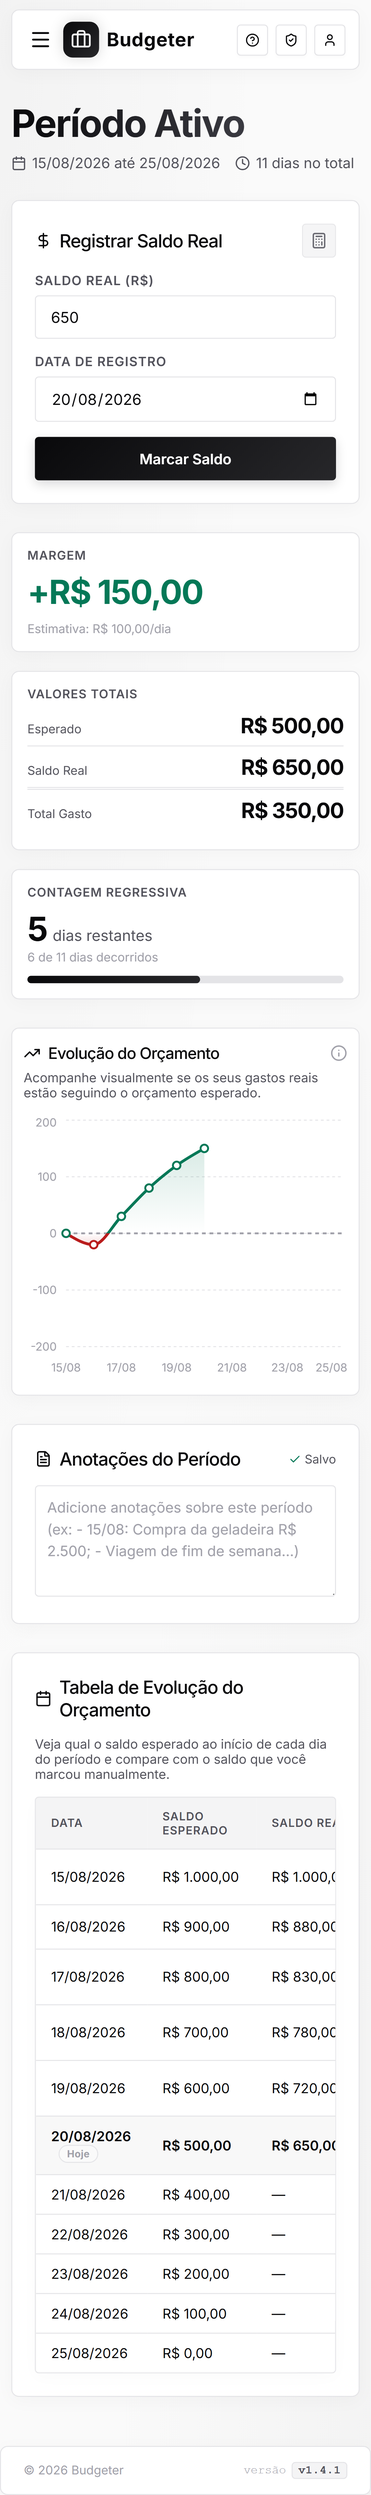
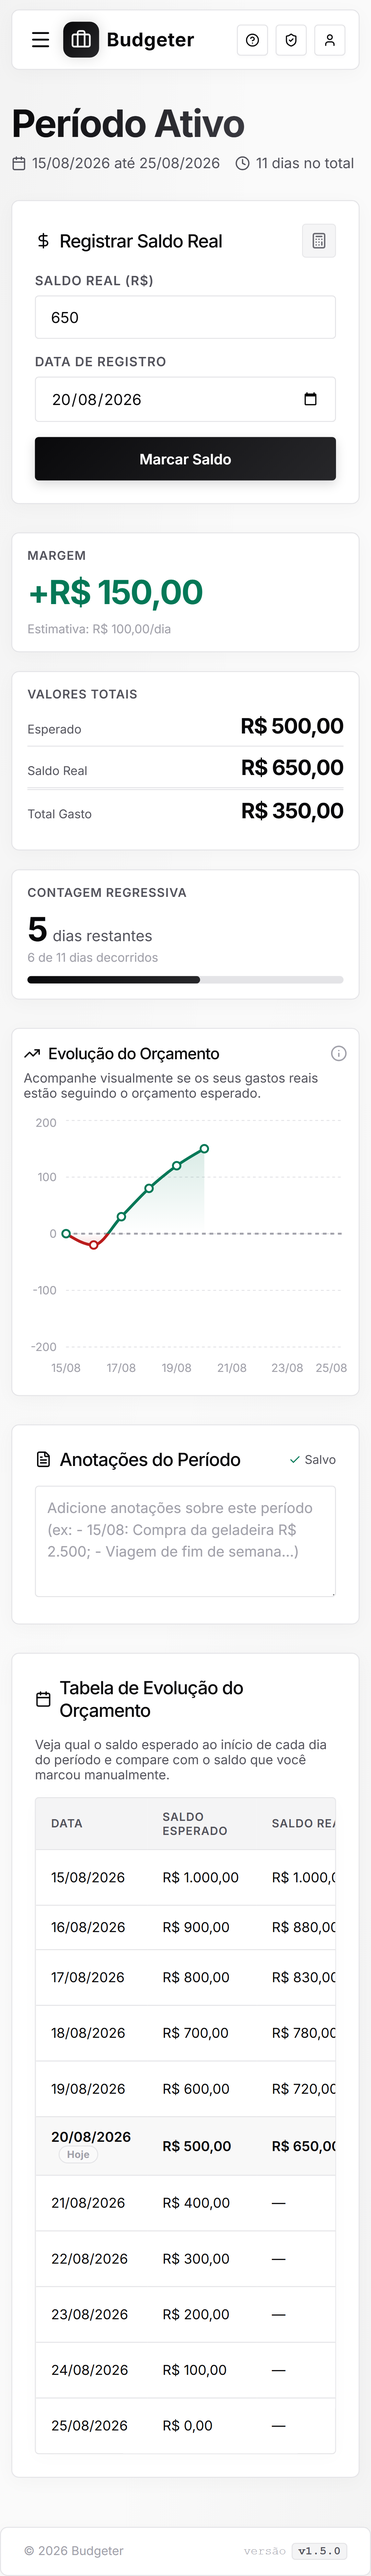
feat: atualiza coluna para Margem Projetada em cinza claro com evolucao diaria

diff --git a/src/components/PeriodDetail.tsx b/src/components/PeriodDetail.tsx
@@ -1012,7 +1012,7 @@ export const PeriodDetail: React.FC<PeriodDetailProps> = ({
                 <th style={{ width: '20%' }}>Data</th>
                 <th style={{ width: '20%' }}>Saldo Esperado</th>
                 <th style={{ width: '20%' }}>Saldo Real</th>
-                <th style={{ width: '20%' }}>Saldo Projetado</th>
+                <th style={{ width: '20%' }}>Margem Projetada</th>
                 <th style={{ width: '20%' }}>Margem</th>
               </tr>
             </thead>
@@ -1055,6 +1055,19 @@ export const PeriodDetail: React.FC<PeriodDetailProps> = ({
                       diffText = 'Margem OK';
                       diffColor = 'var(--color-neutral)';
                       diffWeight = '700';
+                    }
+                  }
+
+                  let projMarginText = '—';
+                  if (!isPast) {
+                    const projMargin = projectedVal - expectedBalance;
+                    const projMarginAbs = Math.abs(projMargin);
+                    if (projMargin > 0.01) {
+                      projMarginText = `+ ${formatCurrency(projMarginAbs)}`;
+                    } else if (projMargin < -0.01) {
+                      projMarginText = `- ${formatCurrency(projMarginAbs)}`;
+                    } else {
+                      projMarginText = 'Margem OK';
                     }
                   }
 
@@ -1105,8 +1118,8 @@ export const PeriodDetail: React.FC<PeriodDetailProps> = ({
                           )}
                         </div>
                       </td>
-                      <td>
-                        {!isPast ? formatCurrency(projectedVal) : '—'}
+                      <td style={{ color: 'var(--text-muted)' }}>
+                        {projMarginText}
                       </td>
 
                       <td style={{ color: diffColor, fontWeight: diffWeight as any }}>

diff --git a/tests/table-projection.spec.ts b/tests/table-projection.spec.ts
@@ -1,7 +1,7 @@
 import { test, expect } from '@playwright/test';
 
-test.describe('Coluna de Saldo Projetado na Tabela', () => {
-  test('deve exibir a coluna Saldo Projetado, mostrando traço para dias passados e saldo projetado para dias hoje/futuros', async ({ page }) => {
+test.describe('Coluna de Margem Projetada na Tabela', () => {
+  test('deve exibir a coluna Margem Projetada, mostrando traço para dias passados e margem projetada em cinza para dias hoje/futuros', async ({ page }) => {
     const mockPeriod = {
       id: "test-table-projection",
       name: "Teste Tabela Projeção",
@@ -27,13 +27,13 @@ test.describe('Coluna de Saldo Projetado na Tabela', () => {
 
     await page.goto('/');
 
-    // Verifica se o cabeçalho "Saldo Projetado" está visível
-    const thProjetado = page.locator('th', { hasText: 'Saldo Projetado' });
+    // Verifica se o cabeçalho "Margem Projetada" está visível
+    const thProjetado = page.locator('th', { hasText: 'Margem Projetada' });
     await expect(thProjetado).toBeVisible();
 
     // Na tabela, verifica que a coluna existe
     const tableHeaderCols = page.locator('table.budget-table th');
     await expect(tableHeaderCols).toHaveCount(5);
-    await expect(tableHeaderCols.nth(3)).toContainText('Saldo Projetado');
+    await expect(tableHeaderCols.nth(3)).toContainText('Margem Projetada');
   });
 });

diff --git a/.agents/AGENTS.md b/.agents/AGENTS.md
@@ -44,3 +44,6 @@ Ao testar a aplicação utilizando o Playwright ou ferramentas de automação vi
    - `npm run bump:major` (para grandes mudanças arquiteturais ex: 1.0.0 -> 2.0.0)
    - `npm run release` (executa build e incrementa a versão patch automaticamente)
 
+## Fluxo de Execução e Aprovação de Planos
+
+1. **Aprovação Automática em Solicitações de Push:** Quando a solicitação do usuário incluir termos que indicam a publicação/envio final (ex: "depois push", "e faz o push", "e publique"), NÃO é necessário pausar para aguardar a confirmação manual do plano de implementação. O agente deve criar/atualizar a documentação necessária e prosseguir diretamente para a execução completa (código, testes, incremento de versão e `git push`).
